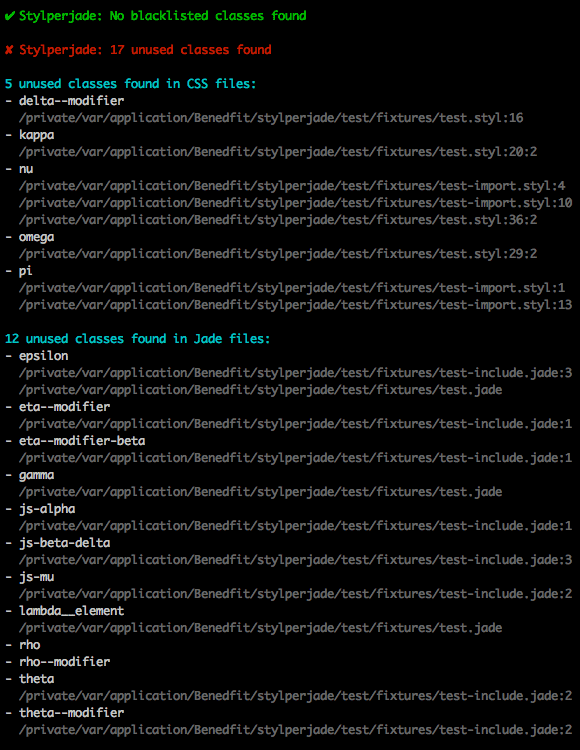
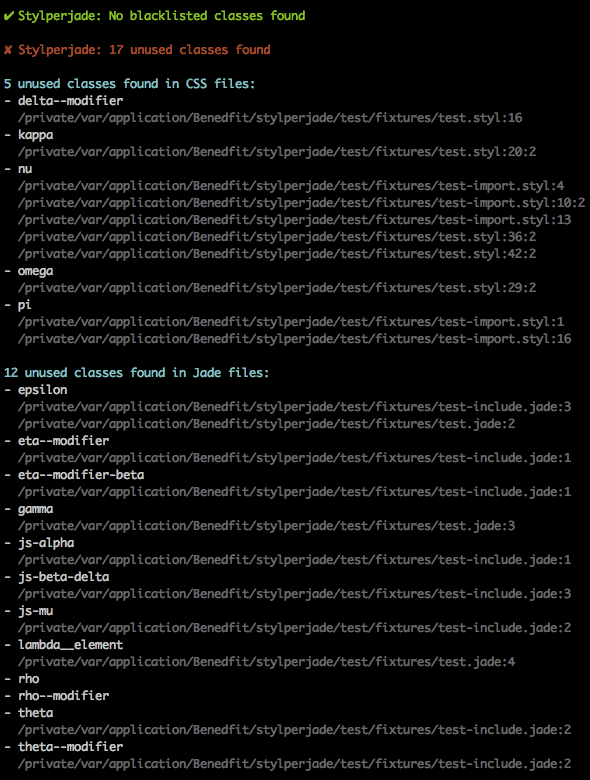
> Update tests now that line numbers are returned for nested Jade classes

diff --git a/lib/stylperjade.js b/lib/stylperjade.js
@@ -153,9 +153,8 @@ function process(cssFiles, jadeFiles, options, cb) {
           report.push('- ' + className.name)
           _.sortBy(className.locations, 'file').forEach(function (location) {
             if (location.file) {
-              report.push('  ' + chalk.grey(location.file
-                + (location.line ? ':' + location.line
-                  + (location.column ? ':' + location.column : '') : '')))
+              report.push('  ' + chalk.grey(location.file + ':' + location.line
+                + (location.column ? ':' + location.column : '')))
             }
           })
         })
